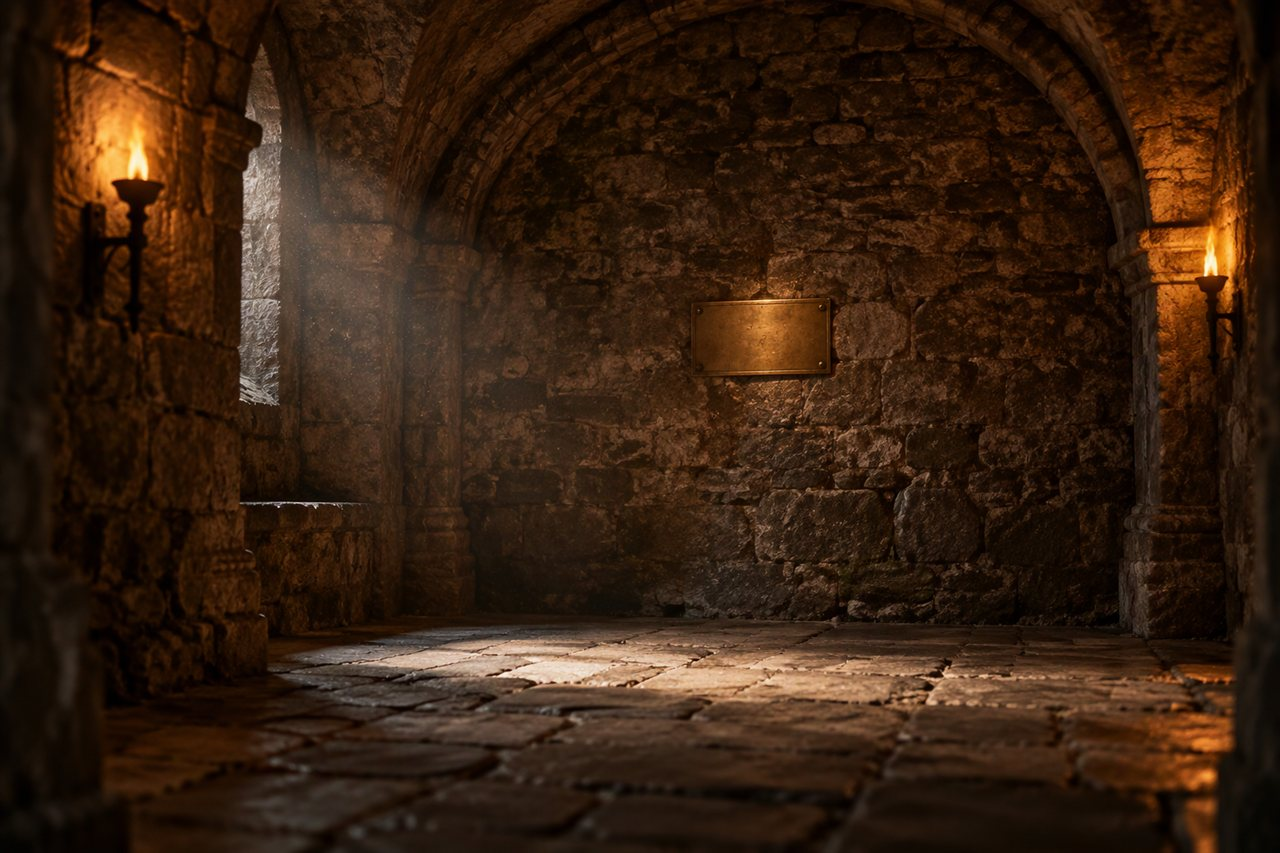
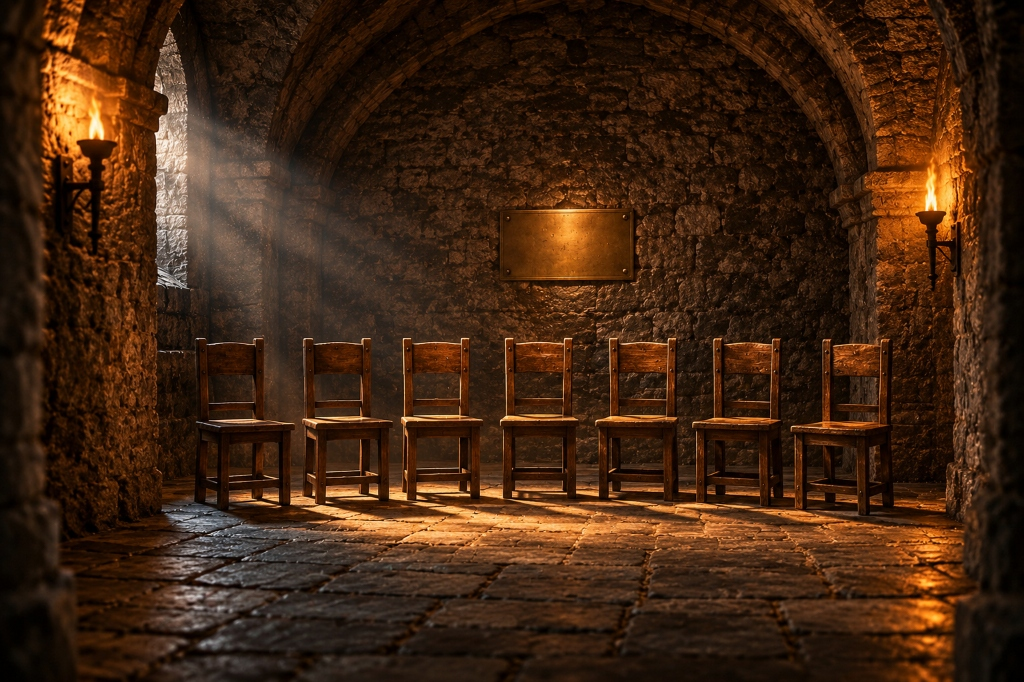
essays: update vault parable image with seven chairs

diff --git a/_pages/essays.md b/_pages/essays.md
@@ -151,7 +151,7 @@ I am interested in what happens as more of the world becomes available to learni
     <h2 class="ep-essay__title" id="a-vault-without-a-door-title">A Vault Without a Door</h2>
   </header>
   <figure class="ep-essay__figure">
-    <img src="/images/essays/vault.jpg" alt="An empty stone vault room lit by torchlight, with a small blank plaque on the far wall and no door in sight" width="1280" height="853" loading="lazy" decoding="async">
+    <img src="/images/essays/vault.jpg" alt="A stone vault lit by torches, with seven wooden chairs arranged in a row beneath a bronze plaque on the far wall" width="1024" height="682" loading="lazy" decoding="async">
   </figure>
   <div class="ep-essay__body" markdown="1">
 
